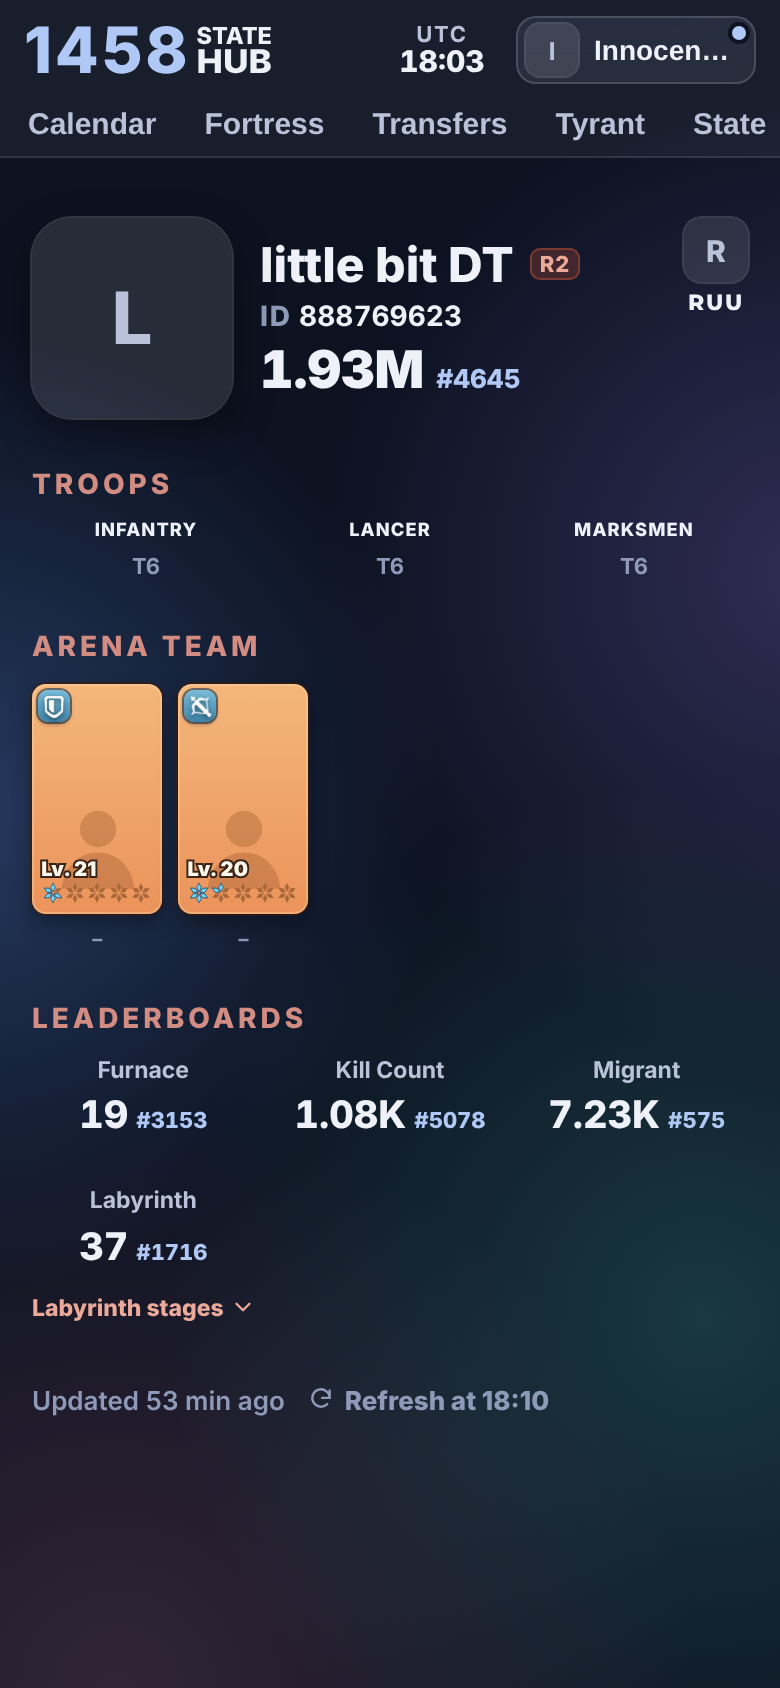
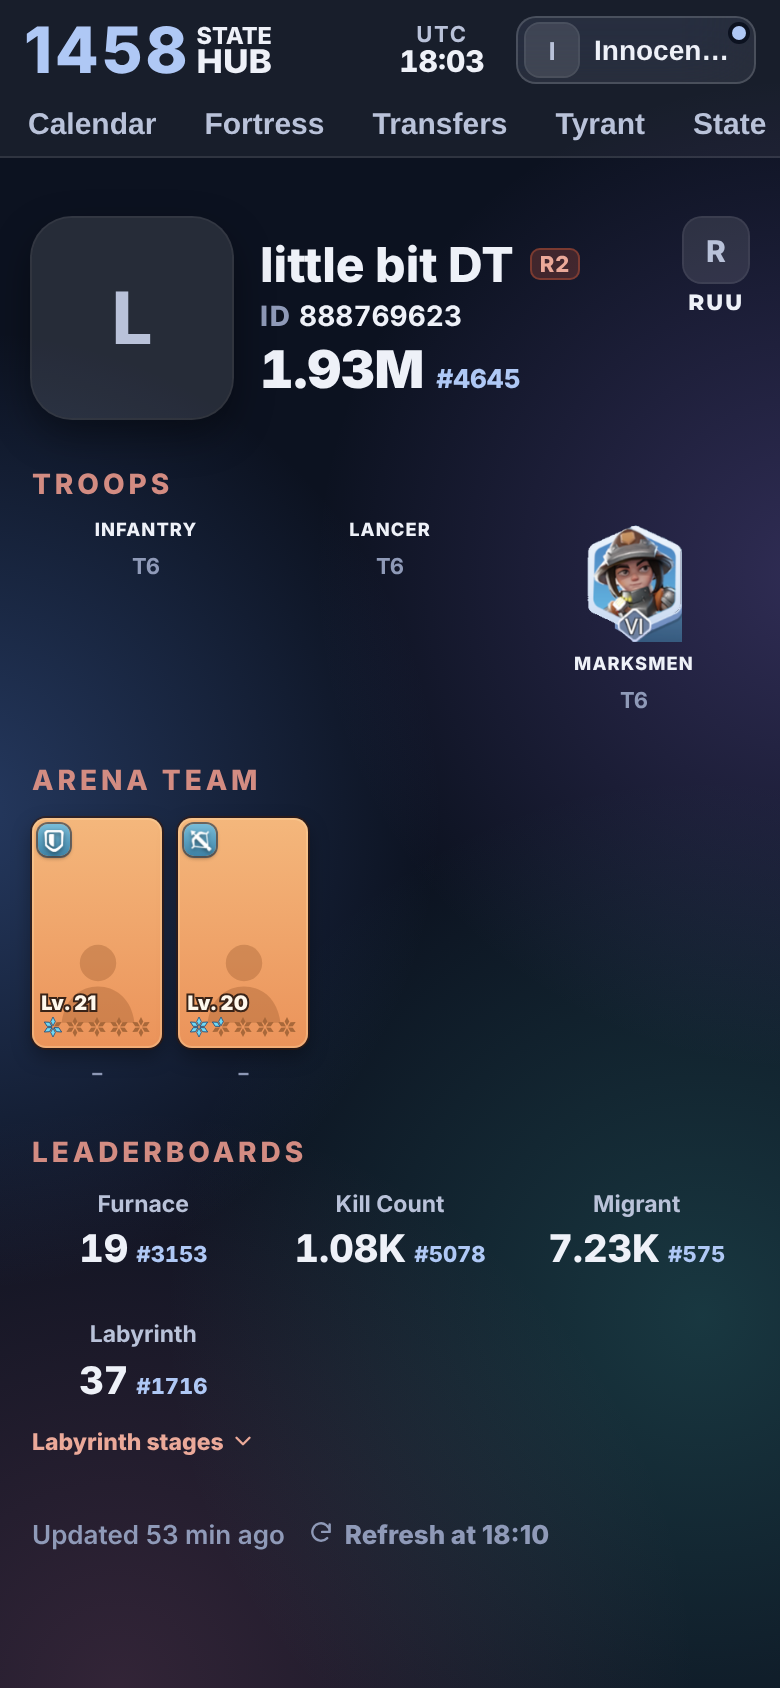
Tier portraits below T10 where the repo has them.

diff --git a/tools/mockups/player-page-v2/build_v33.py b/tools/mockups/player-page-v2/build_v33.py
@@ -230,6 +230,9 @@ def troops_part(c, mode, changed_to=None):
     items = ''
     for i, (n, k, tier, fcl) in enumerate(c['troops']):
         key, word = TIER.get(tier, (None, f'T{tier}'))
+        # Below T10: the tier's portrait where the repo has it (Marksmen T1 to T9 so far).
+        if key is None and (here / f'images/troops/{k}-t{tier}.png').exists():
+            key = f't{tier}'
         detail = f'<span class="q">{word}</span>'
         if tier == 12 and skills[i]:
             detail += f'<span class="s">Lvl. {skills[i]}</span>'
